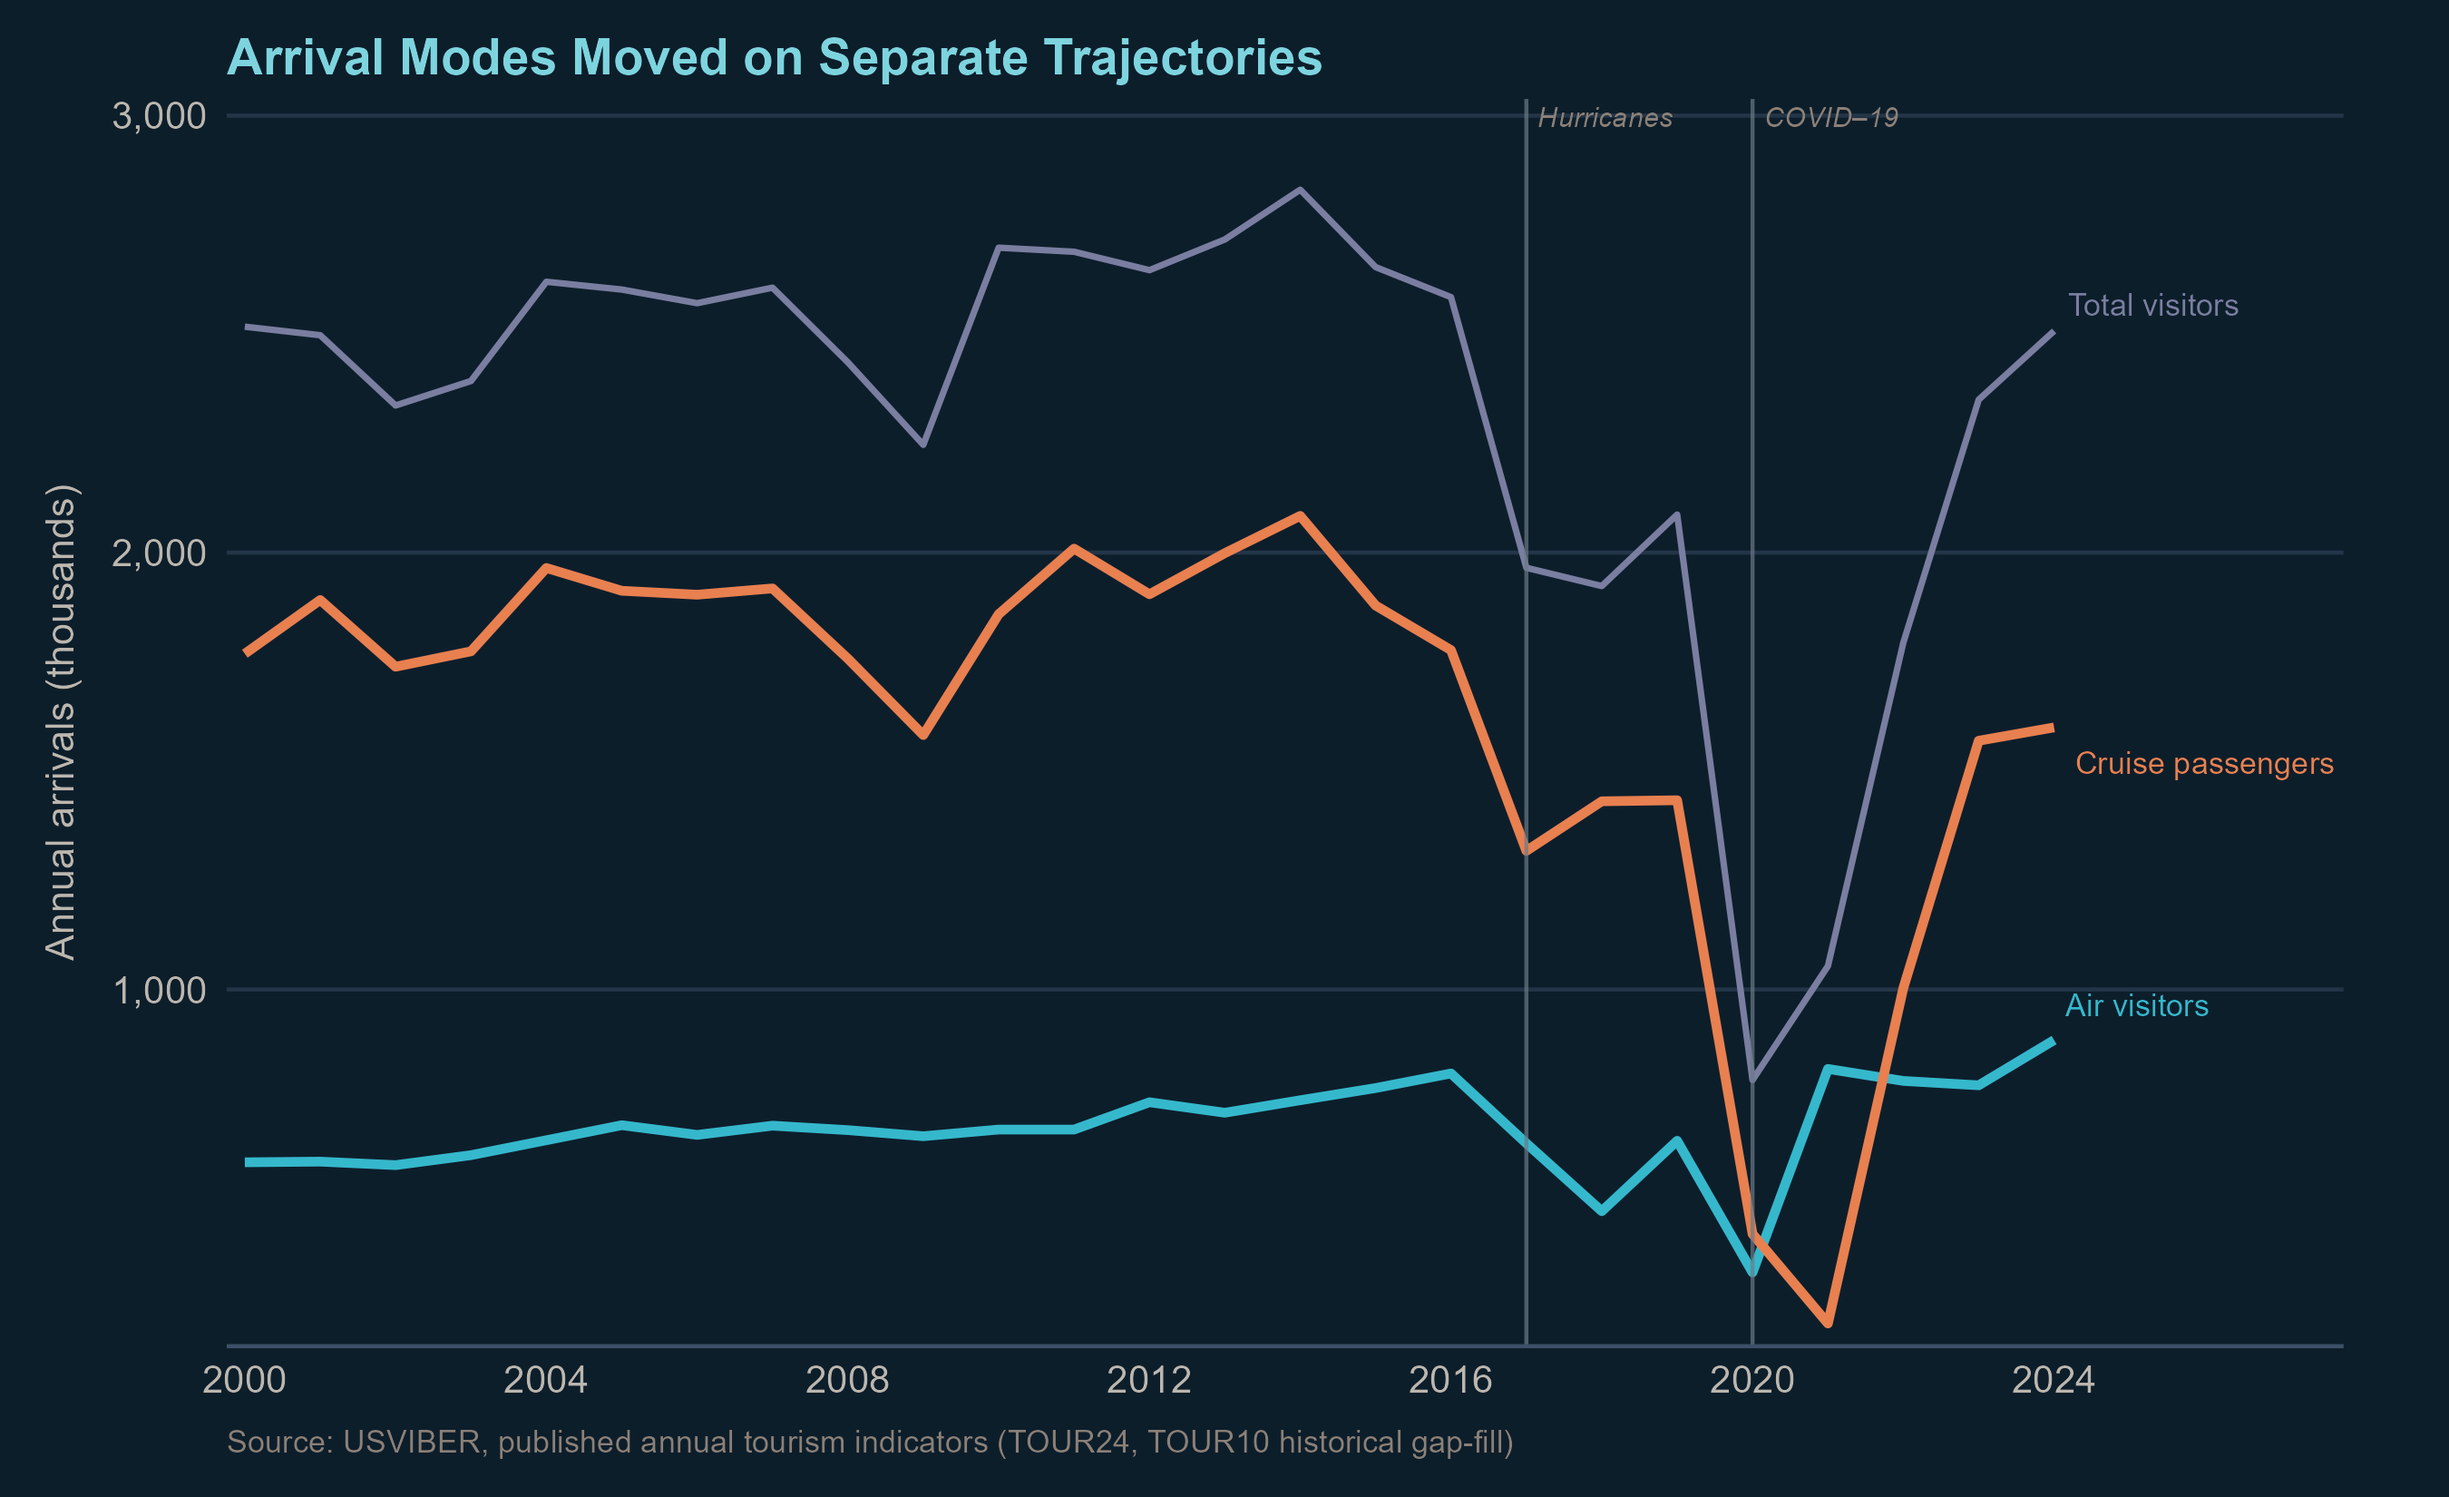
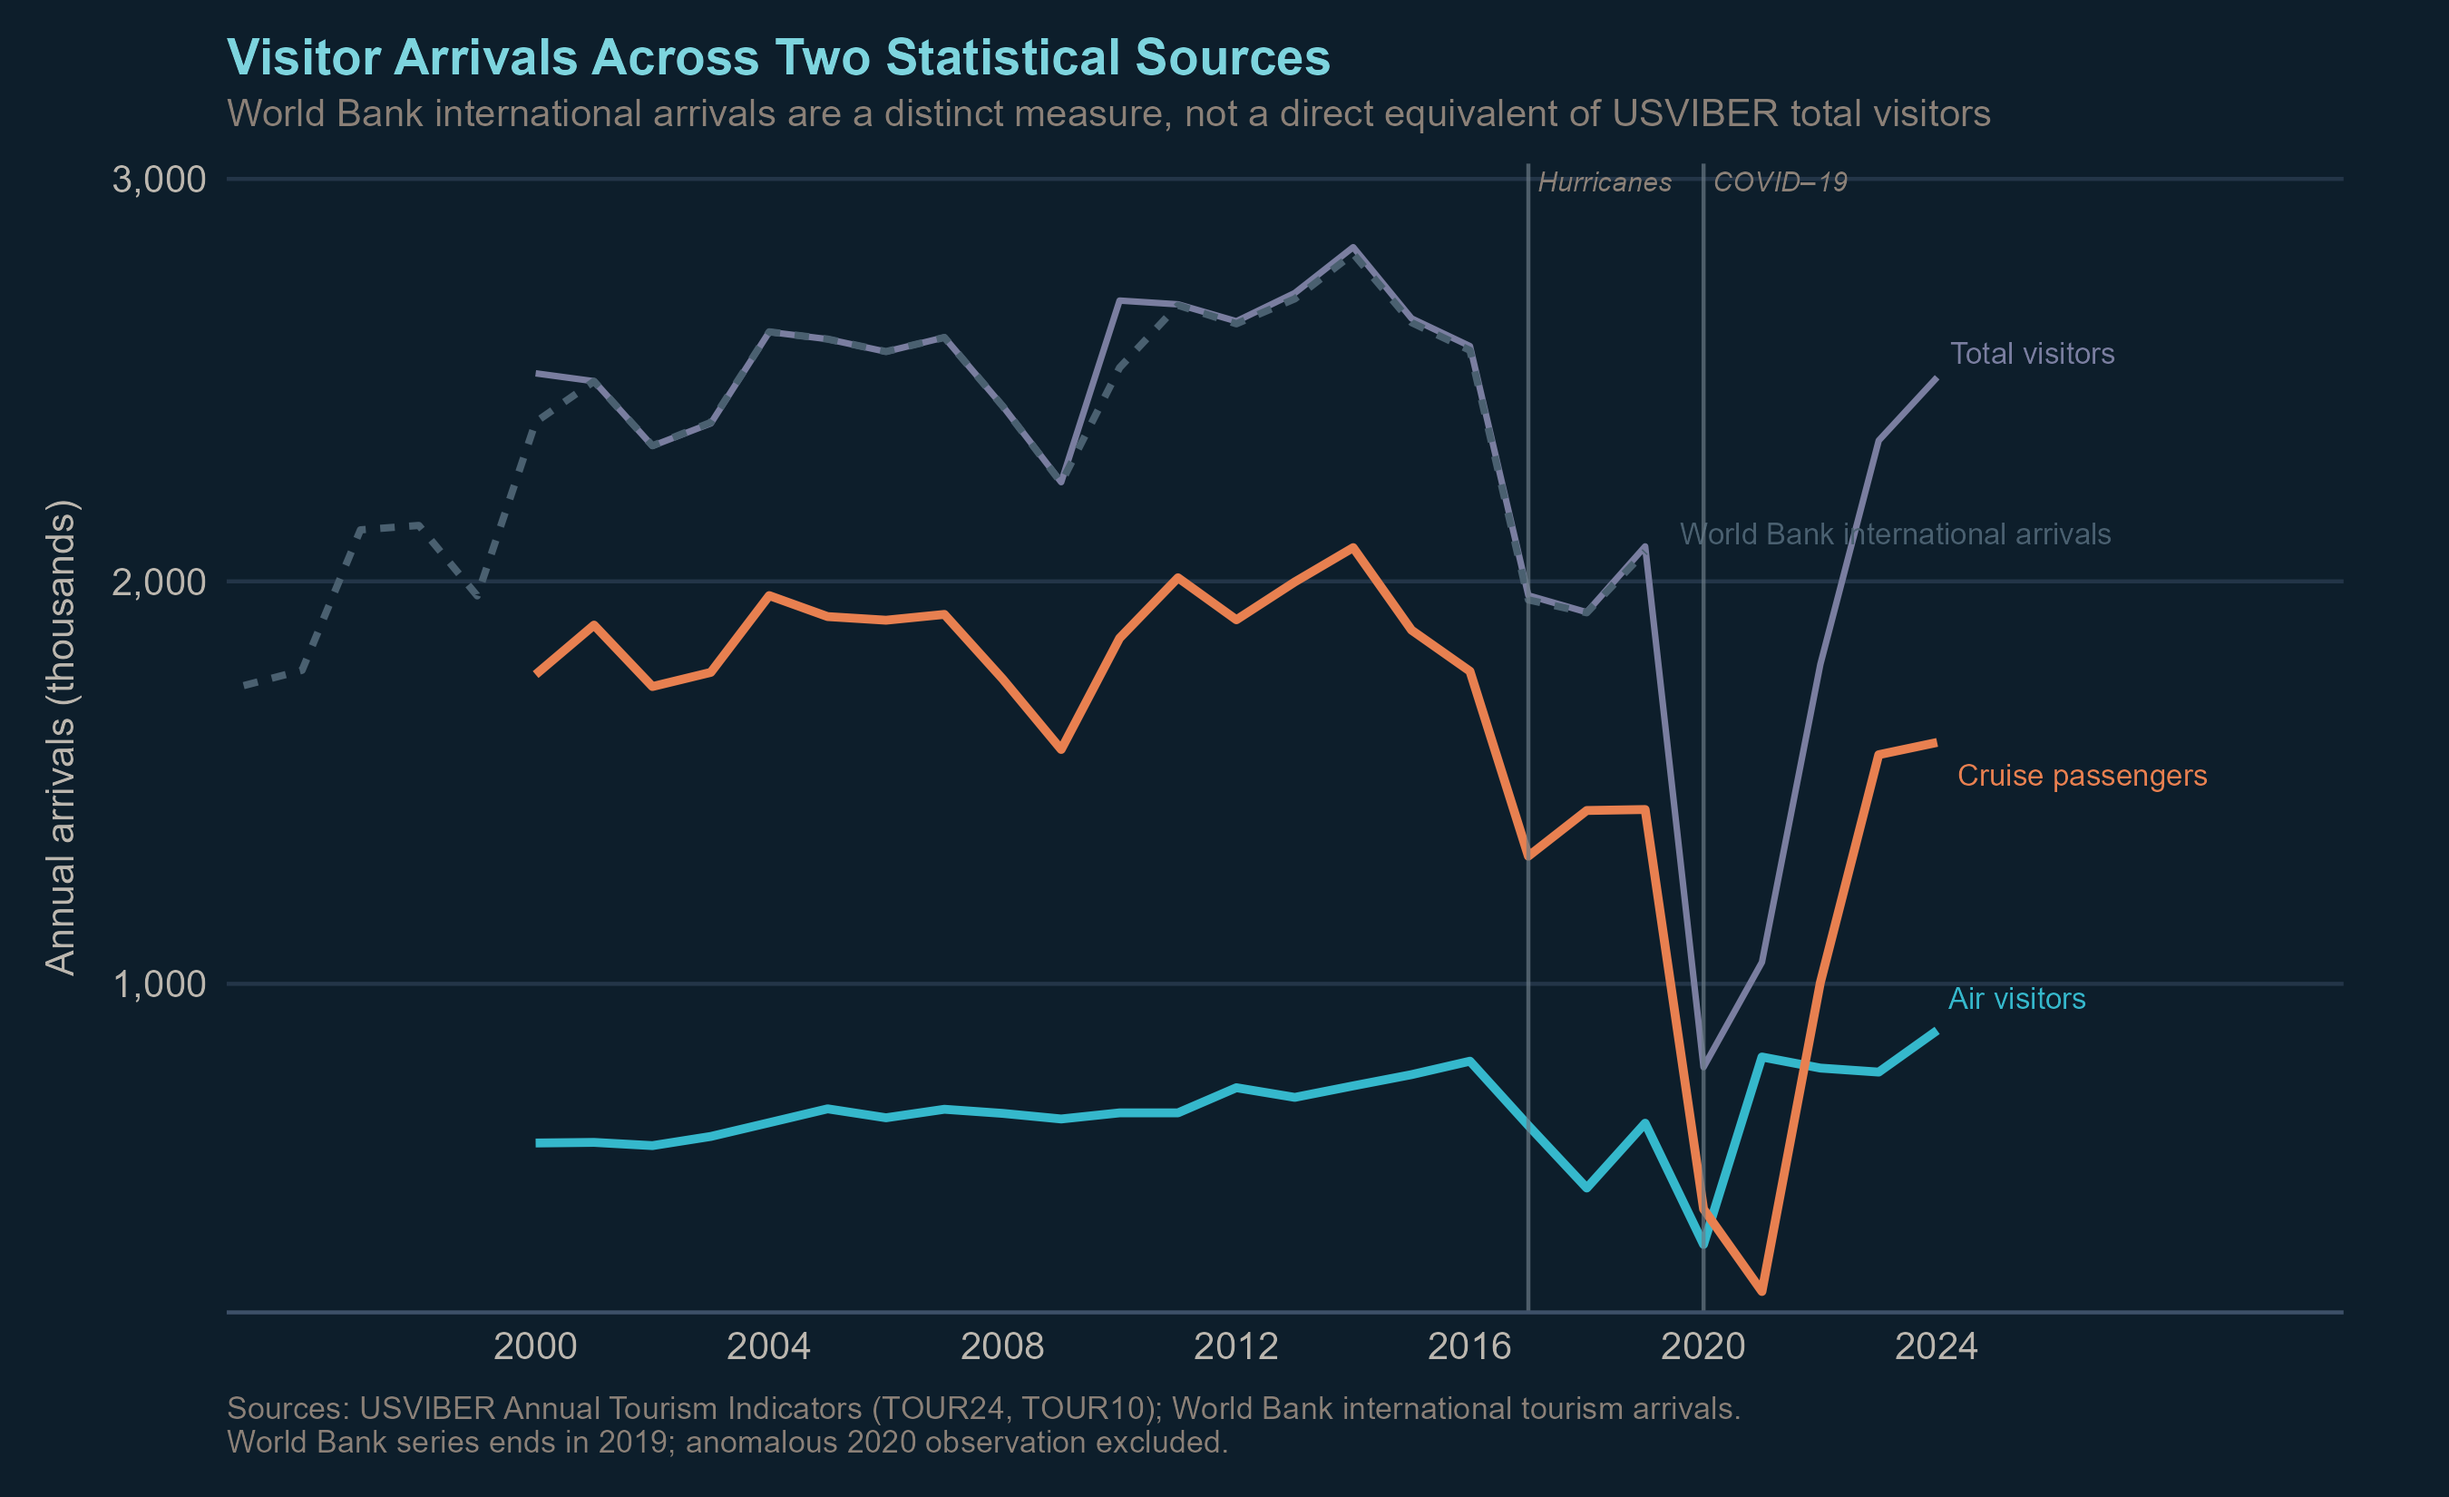
feat(plots): add World Bank to fig01; move old fig01 to figOV

diff --git a/docs/reports/overview.html b/docs/reports/overview.html
@@ -82,10 +82,7 @@ ul.task-list li input[type="checkbox"] {
 <style>html{ scroll-behavior: smooth; }</style>
 <script src="https://cdn.jsdelivr.net/npm/requirejs@2.3.6/require.min.js" integrity="sha384-c9c+LnTbwQ3aujuU7ULEPVvgLs+Fn6fJUvIGTsuu1ZcCf11fiEubah0ttpca4ntM sha384-6V1/AdqZRWk1KAlWbKBlGhN7VG4iE/yAZcO6NZPMF8od0vukrvr0tg4qY6NSrItx" crossorigin="anonymous"></script>
 
-
-
 <script type="application/javascript">define('jquery', [],function() {return window.jQuery;})</script>
-
 
 
 <meta property="og:title" content="Trade Winds &amp; Headwinds">
@@ -412,7 +409,7 @@ ul.task-list li input[type="checkbox"] {
 <section id="recovery-at-a-glance" class="level2">
 <h2 class="anchored" data-anchor-id="recovery-at-a-glance">Recovery at a glance</h2>
 <p>The figures below are indexed to 2016 = 100, except where noted. They come from different sources and have different latest observation years. They are not from a single common year.</p>
-<div id="6c6f5e35" class="cell" data-execution_count="2">
+<div id="6e0e50c4" class="cell" data-execution_count="2">
 <div class="cell-output cell-output-display">
 <div class="scorecard-grid">
 
@@ -443,6 +440,15 @@ ul.task-list li input[type="checkbox"] {
         </div>
     </div>
 
+      <div class="scorecard-item above-baseline">
+        <div class="sc-label">NPS recreation visits</div>
+        <div class="sc-value">115%</div>
+        <div class="sc-context">2025 vs. 2016 · VIIS estimated visits</div>
+        <div class="sc-bar-track">
+          <div class="sc-bar-fill" style="width:92.0%"></div>
+        </div>
+    </div>
+
       <div class="scorecard-item below-baseline">
         <div class="sc-label">Hotel inventory</div>
         <div class="sc-value">82%</div>
@@ -461,15 +467,6 @@ ul.task-list li input[type="checkbox"] {
         </div>
     </div>
 
-      <div class="scorecard-item below-baseline">
-        <div class="sc-label">Real A&amp;F value added</div>
-        <div class="sc-value">87%</div>
-        <div class="sc-context">2021 vs. 2016 · BEA (latest available)</div>
-        <div class="sc-bar-track">
-          <div class="sc-bar-fill" style="width:69.6%"></div>
-        </div>
-    </div>
-
       <div class="scorecard-item above-baseline">
         <div class="sc-label">Real territorial GDP</div>
         <div class="sc-value">105%</div>
@@ -479,12 +476,12 @@ ul.task-list li input[type="checkbox"] {
         </div>
     </div>
 
-      <div class="scorecard-item above-baseline">
-        <div class="sc-label">NPS recreation visits</div>
-        <div class="sc-value">115%</div>
-        <div class="sc-context">2025 vs. 2016 · VIIS estimated visits</div>
+      <div class="scorecard-item below-baseline">
+        <div class="sc-label">Real A&amp;F value added</div>
+        <div class="sc-value">87%</div>
+        <div class="sc-context">2021 vs. 2016 · BEA (latest available)</div>
         <div class="sc-bar-track">
-          <div class="sc-bar-fill" style="width:92.0%"></div>
+          <div class="sc-bar-fill" style="width:69.6%"></div>
         </div>
     </div>
 </div>
@@ -503,13 +500,13 @@ ul.task-list li input[type="checkbox"] {
 <div aria-describedby="fig-arrivals-caption-0ceaefa1-69ba-4598-a22c-09a6ac19f8ca">
 <div class="quarto-figure quarto-figure-center">
 <figure class="figure">
-<p><img src="../figures/publication/fig01_arrivals_light.png" class="light-content img-fluid figure-img" alt="Line chart showing air visitor and cruise passenger arrivals from 2000 to 2024 with shock markers at 2017 and 2020"></p>
+<p><img src="../figures/publication/figOV_arrivals_light.png" class="light-content img-fluid figure-img" alt="Line chart showing air visitor and cruise passenger arrivals from 2000 to 2024 with shock markers at 2017 and 2020"></p>
 <figcaption>Air visitors, cruise passengers, and published total arrivals, 2000–2024</figcaption>
 </figure>
 </div>
 <div class="quarto-figure quarto-figure-center">
 <figure class="figure">
-<p><img src="../figures/publication/fig01_arrivals_dark.png" class="dark-content img-fluid figure-img" alt="Line chart showing air visitor and cruise passenger arrivals from 2000 to 2024 with shock markers at 2017 and 2020"></p>
+<p><img src="../figures/publication/figOV_arrivals_dark.png" class="dark-content img-fluid figure-img" alt="Line chart showing air visitor and cruise passenger arrivals from 2000 to 2024 with shock markers at 2017 and 2020"></p>
 <figcaption>Air visitors, cruise passengers, and published total arrivals, 2000–2024</figcaption>
 </figure>
 </div>
